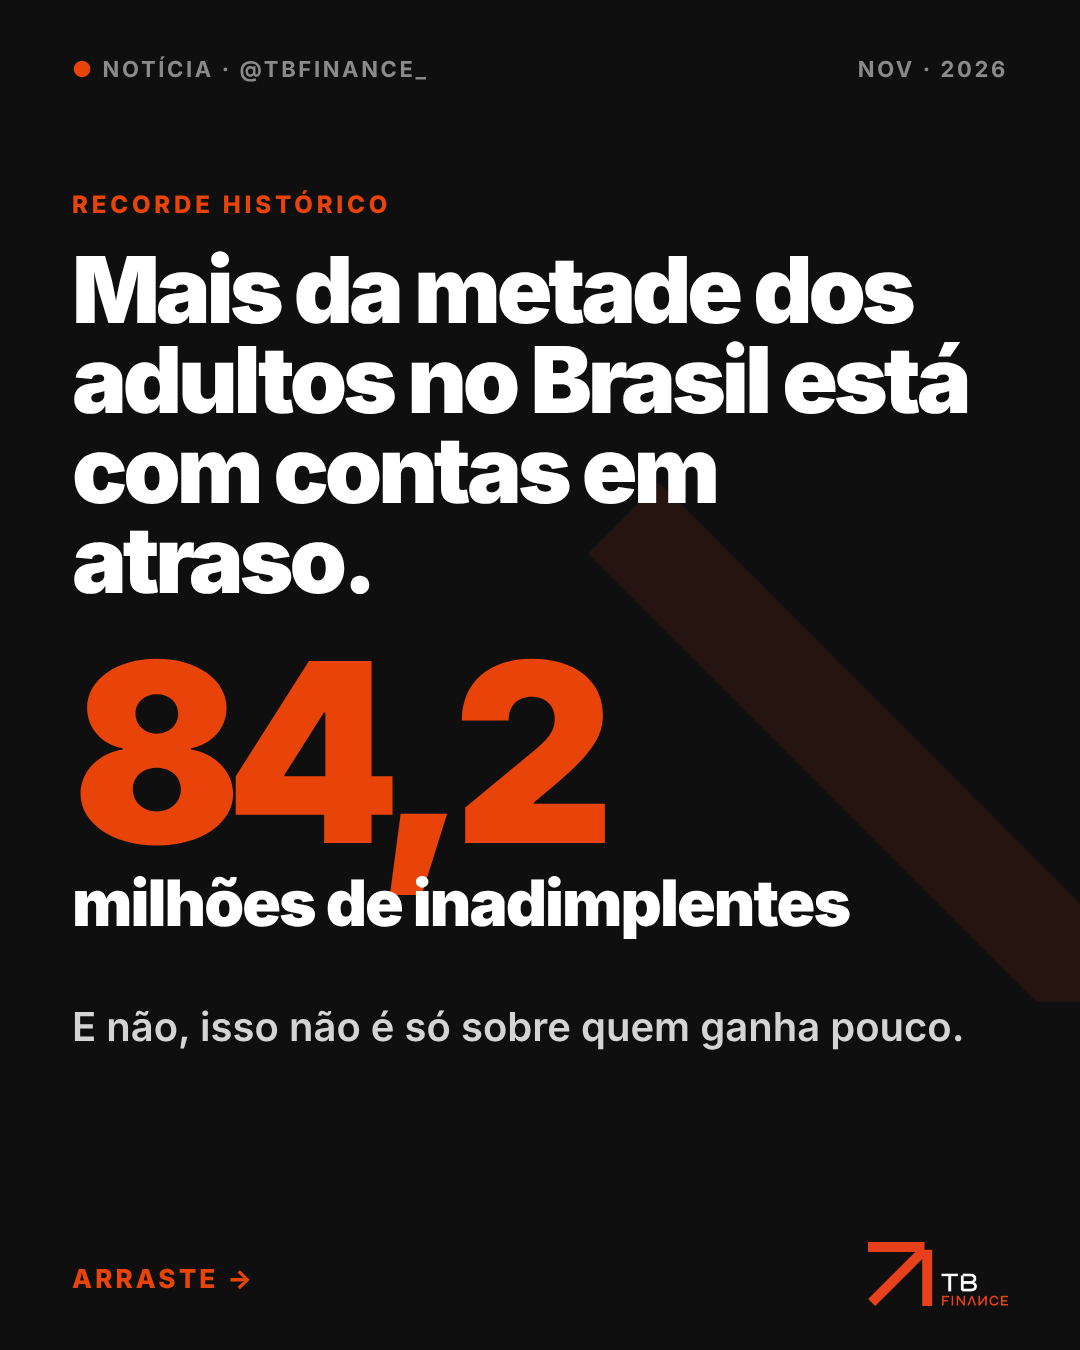
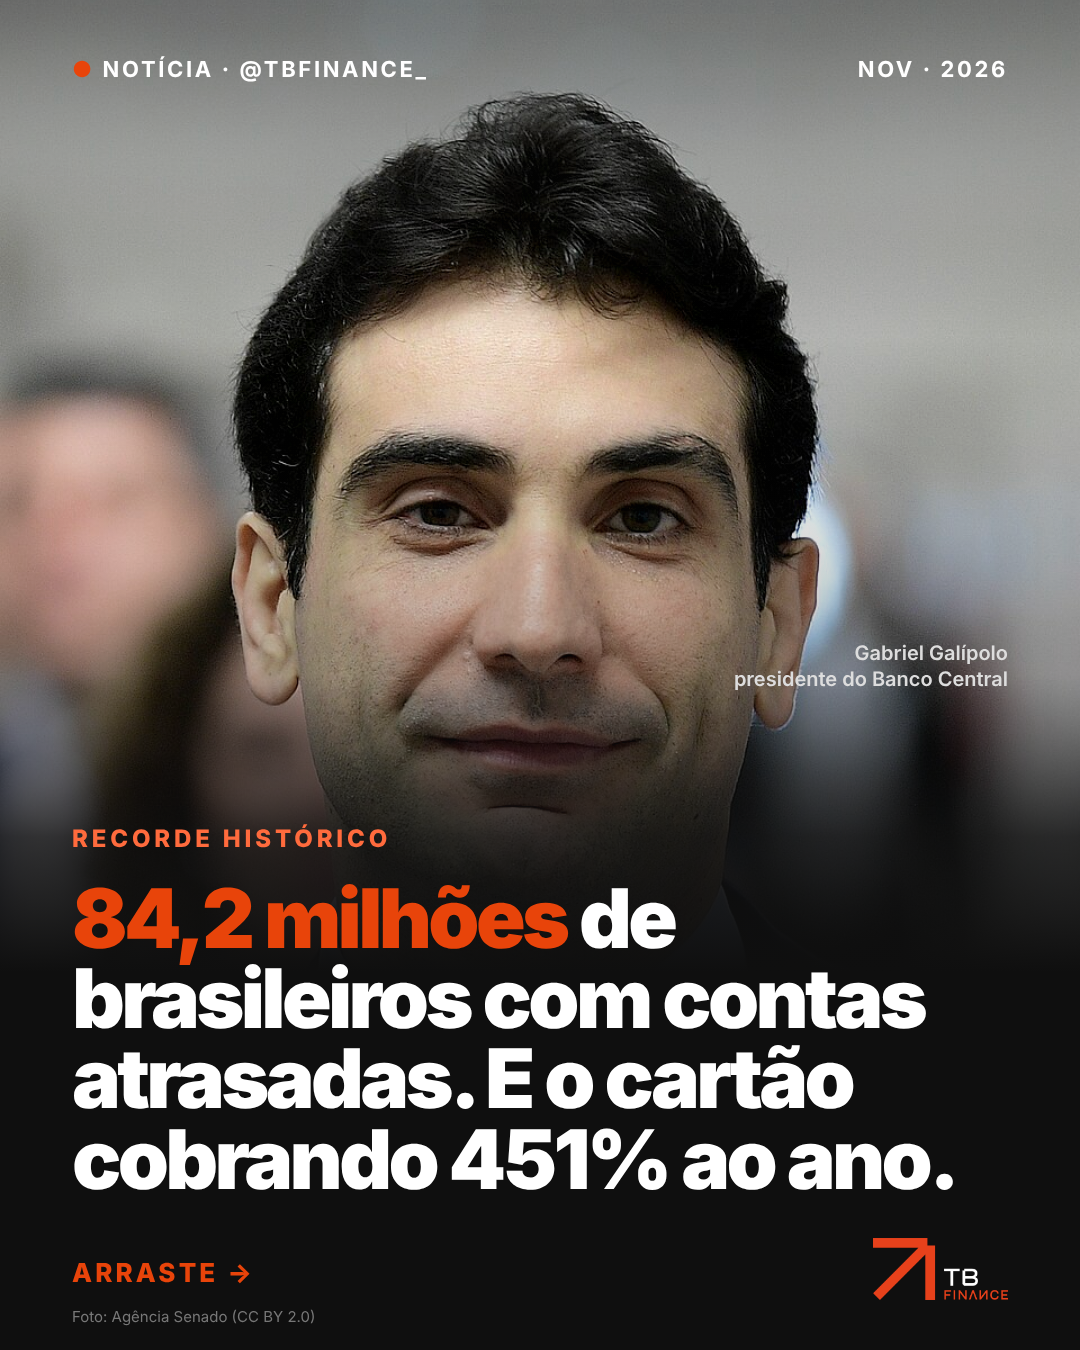
feat(marketing): carrossel com fotos editoriais e CTA de comentário rotativo
Claude-Session: https://claude.ai/code/session_01PgX7nvM3iYSo6xDzmGNfnx

diff --git a/marketing/tbfinance/carrosseis/2026-11-recorde-inadimplencia/slides/01.html b/marketing/tbfinance/carrosseis/2026-11-recorde-inadimplencia/slides/01.html
@@ -1,17 +1,21 @@
 <html><head><link rel="stylesheet" href="ed.css"><style>
-.num{font-size:250px;font-weight:900;letter-spacing:-.065em;line-height:.85;color:#E8440A;margin-top:40px}
-.mi{font-size:64px;font-weight:900;letter-spacing:-.03em;color:#fff;margin-top:6px}
-.sub{font-size:40px;font-weight:600;color:#D4D4D4;margin-top:60px;line-height:1.3}
-.sw{position:absolute;bottom:56px;left:72px;font-size:26px;font-weight:800;letter-spacing:.12em;color:#E8440A}
-.logo{position:absolute;right:72px;bottom:44px;height:64px}
-.seta{position:absolute;right:-90px;top:420px;width:520px;opacity:.10;transform:rotate(90deg)}
-</style></head><body class="dark"><div class="top"><span><b>●</b> NOTÍCIA · @TBFINANCE_</span><span>NOV · 2026</span></div>
-<img class="seta" src="../../../assets/seta.png">
-<div class="wrap" style="top:190px">
-<div class="kick">RECORDE HISTÓRICO</div>
-<h1 style="color:#fff">Mais da metade dos adultos no Brasil está com contas em atraso.</h1>
-<div class="num">84,2</div><div class="mi">milhões de inadimplentes</div>
-<div class="sub">E não, isso não é só sobre quem ganha pouco.</div>
-</div>
+body{background:#0F0F0F}
+.bg{position:absolute;inset:0;background:url(galipolo-2023.jpg) center -40px/1080px auto no-repeat;filter:grayscale(.25) contrast(1.05)}
+.sh{position:absolute;inset:0;background:linear-gradient(180deg,rgba(15,15,15,.35) 0%,rgba(15,15,15,0) 25%,rgba(15,15,15,.25) 50%,rgba(15,15,15,.85) 62%,#0F0F0F 72%)}
+.top{color:#fff}
+.who{position:absolute;right:72px;top:640px;font-size:20px;font-weight:600;color:#ddd;text-align:right;line-height:1.3}
+.box{position:absolute;left:72px;right:72px;bottom:150px}
+.kick{color:#FF6B3D}
+h1{color:#fff;font-size:82px}
+.sw{position:absolute;bottom:62px;left:72px;font-size:26px;font-weight:800;letter-spacing:.12em;color:#E8440A}
+.logo{position:absolute;right:72px;bottom:50px;height:62px}
+.cr{position:absolute;left:72px;bottom:24px;font-size:15px;color:#777}
+</style></head><body>
+<div class="bg"></div><div class="sh"></div>
+<div class="top"><span><b>●</b> NOTÍCIA · @TBFINANCE_</span><span>NOV · 2026</span></div>
+<div class="who">Gabriel Galípolo<br>presidente do Banco Central</div>
+<div class="box"><div class="kick">RECORDE HISTÓRICO</div>
+<h1><span class="or">84,2 milhões</span> de brasileiros com contas atrasadas. E o cartão cobrando 451% ao ano.</h1></div>
 <div class="sw">ARRASTE →</div><img class="logo" src="../../../assets/logo-tb-light.png">
+<div class="cr">Foto: Agência Senado (CC BY 2.0)</div>
 </body></html>

diff --git a/marketing/tbfinance/carrosseis/2026-11-recorde-inadimplencia/slides/05.html b/marketing/tbfinance/carrosseis/2026-11-recorde-inadimplencia/slides/05.html
@@ -1,10 +1,19 @@
-<html><head><link rel="stylesheet" href="ed.css"></head><body class="dark"><div class="top"><span><b>●</b> NOTÍCIA · @TBFINANCE_</span><span>NOV · 2026</span></div>
+<html><head><link rel="stylesheet" href="ed.css"><style>
+body{background:#0F0F0F;color:#fff}
+.ph{position:absolute;left:0;right:0;top:0;height:640px;background:url(galipolo-cae-b.jpg) center 30%/cover}
+.ph:after{content:'';position:absolute;inset:0;background:linear-gradient(180deg,rgba(15,15,15,.4) 0%,rgba(15,15,15,0) 30%,rgba(15,15,15,0) 60%,#0F0F0F 100%)}
+.top{color:#fff;z-index:2}
+.wrap{top:560px}
+.big{font-size:170px}
+p{color:#D4D4D4}p b{color:#fff}
+.pg{color:#fff}
+.src{color:#777}
+</style></head><body>
+<div class="ph"></div>
+<div class="top"><span><b>●</b> NOTÍCIA · @TBFINANCE_</span><span>NOV · 2026</span></div>
 <div class="wrap"><div class="kick">O VILÃO</div>
-<h2 style="color:#fff">O juro do rotativo do cartão chegou a</h2>
-<div class="big" style="margin-top:30px">451,7%</div>
-<div style="font-size:52px;font-weight:900;color:#fff;margin-top:10px">ao ano.</div>
-<p>É o maior custo de crédito para a pessoa física. Desde 2024, a lei limita juros e encargos a <b>100% da dívida original</b>: na prática, uma fatura de R$ 2 mil pode <b>dobrar</b>.</p>
-<p>Por isso pagar o mínimo do cartão é a forma mais cara de "estar em dia".</p>
+<div style="display:flex;align-items:baseline;gap:24px"><div class="big">451,7%</div><div style="font-size:44px;font-weight:900">ao ano</div></div>
+<p style="margin-top:20px">É o juro médio do <b>rotativo do cartão</b> em setembro, segundo o Banco Central de Galípolo. Desde 2024, a lei limita juros e encargos a <b>100% da dívida original</b>: uma fatura de R$ 2 mil pode <b>dobrar</b>.</p>
 </div>
-<div class="src" style="color:#777">Fonte: Banco Central (dados de setembro/2026); Lei 14.690/2023.</div><div class="pg">5/8</div>
+<div class="src">Fonte: Banco Central (set/2026); Lei 14.690/2023. Foto: Agência Senado (CC BY 2.0).</div><div class="pg">5/8</div>
 </body></html>

diff --git a/marketing/tbfinance/carrosseis/2026-11-recorde-inadimplencia/slides/08.html b/marketing/tbfinance/carrosseis/2026-11-recorde-inadimplencia/slides/08.html
@@ -2,7 +2,7 @@
 <div class="wrap" style="top:220px"><div class="kick">SUA DÍVIDA TEM SOLUÇÃO</div>
 <h1 style="color:#fff">Recorde de inadimplência não precisa ser o <span class="or">seu</span> recorde.</h1>
 <p>Desde 2019, a TB Finance já ajudou mais de 3.000 brasileiros a organizar as finanças e renegociar mais de R$ 30 milhões em dívidas.</p>
-<p><b>Tem mais de uma dívida e não sabe por onde começar? Fala com a gente. O link está na bio.</b></p>
+<div style="margin-top:44px;border:3px solid #E8440A;border-radius:22px;padding:30px 36px;font-size:40px;line-height:1.3;font-weight:700;color:#fff">Comenta <span class="or" style="font-weight:900">DESTRAVA</span> e receba a aula gratuita: como organizar as finanças e negociar dívidas com até 90% de desconto.</div>
 <img class="logo" src="../../../assets/logo-tb-light.png">
 </div>
 <div class="pg">8/8</div>

diff --git a/marketing/tbfinance/ESTRATEGIA.md b/marketing/tbfinance/ESTRATEGIA.md
@@ -140,6 +140,23 @@ Números concretos sempre que possível. Zero "economês".
 [3 a 5 hashtags]
 ```
 
+### CTA de comentário (obrigatório em toda legenda, alternando)
+
+Toda legenda termina com **um** destes CTAs. Eles vão alternando, sem repetir o mesmo dois posts seguidos:
+
+| Palavra | O que a pessoa recebe | Quando usar melhor |
+|---|---|---|
+| **DESTRAVA** | aula grátis sobre organização financeira e como negociar dívidas com até 90% de desconto | notícias, casos reais, posts sobre juros e descontos |
+| **EBOOK** | e-book de organização financeira e liquidação de dívidas | carrosséis educativos, "passo a passo" |
+| **PLANILHA** | planilha de organização financeira pessoal e negociação de dívidas | posts sobre orçamento, gastos, "pra onde vai meu dinheiro" |
+
+Modelos:
+- "Comenta **DESTRAVA** que eu te mando o link da aula gratuita: como organizar as finanças e negociar dívidas com até 90% de desconto."
+- "Comenta **EBOOK** e receba no direct o nosso e-book de organização financeira e liquidação de dívidas."
+- "Comenta **PLANILHA** que a gente te envia a planilha de organização financeira e negociação de dívidas."
+
+O "link na bio" passa a ser só complemento, não a chamada principal.
+
 ### Exemplos prontos
 
 **Reels — depoimento da Bruna**

diff --git a/marketing/tbfinance/carrosseis/2026-11-recorde-inadimplencia/LEGENDA.md b/marketing/tbfinance/carrosseis/2026-11-recorde-inadimplencia/LEGENDA.md
@@ -17,13 +17,21 @@ E tem dois detalhes que pouca gente comentou:
 
 O Feirão Limpa Nome está aberto até 6 de dezembro e pode ajudar muita gente. Mas negociar uma dívida é diferente de sair das dívidas. Quem tem cartão, empréstimo e cheque especial ao mesmo tempo precisa de um plano, não de um acordo isolado.
 
-Se esse é o seu caso, fala com a gente. O link está na bio.
+💬 Comenta DESTRAVA que eu te mando a aula gratuita: como organizar as finanças e negociar dívidas com até 90% de desconto.
 
 📌 Salva e manda para alguém que precisa ver isso.
 
 Fontes: Serasa (Mapa da Inadimplência, set/2026), Banco Central (set/2026), Serasa Limpa Nome.
+Fotos: Agência Senado (CC BY 2.0).
 
 #dividas #inadimplencia #serasa #educacaofinanceira #tbfinance
+
+## CTA deste post
+DESTRAVA (próximo post: EBOOK ou PLANILHA)
+
+## Créditos das fotos (licença exige crédito)
+- Gabriel Galípolo, 2023: Agência Senado, CC BY 2.0, via Wikimedia Commons ("Gabriel Galípolo in 2023.jpg")
+- Galípolo na CAE, 8/10/2024: Agência Senado, CC BY 2.0, via Wikimedia Commons
 
 ## Fontes consultadas
 - https://crn1.com.br/2026/11/inadimplencia-bate-recorde-e-chega-a-842-milhoes-de-brasileiros-aponta-serasa

diff --git a/marketing/tbfinance/fotos/CREDITOS.md b/marketing/tbfinance/fotos/CREDITOS.md
@@ -1,0 +1,9 @@
+# Fotos de terceiros: licenças
+
+| Arquivo | Pessoa | Autor | Licença | Origem |
+|---|---|---|---|---|
+| galipolo-2023.jpg | Gabriel Galípolo | Agência Senado | CC BY 2.0 | Wikimedia Commons: File:Gabriel Galípolo in 2023.jpg |
+| galipolo-cae-b.jpg | Gabriel Galípolo (CAE, 8/10/2024) | Agência Senado | CC BY 2.0 | Wikimedia Commons: File:2024-10-08, CAE - Comissão de Assuntos Econômicos (54052239106).jpg |
+
+Regra: toda foto de terceiro precisa de crédito no slide e na legenda. Só usar CC0, CC BY ou foto própria.
+Fotos de pessoa pública só em contexto de notícia; nunca no slide de oferta da TB.
